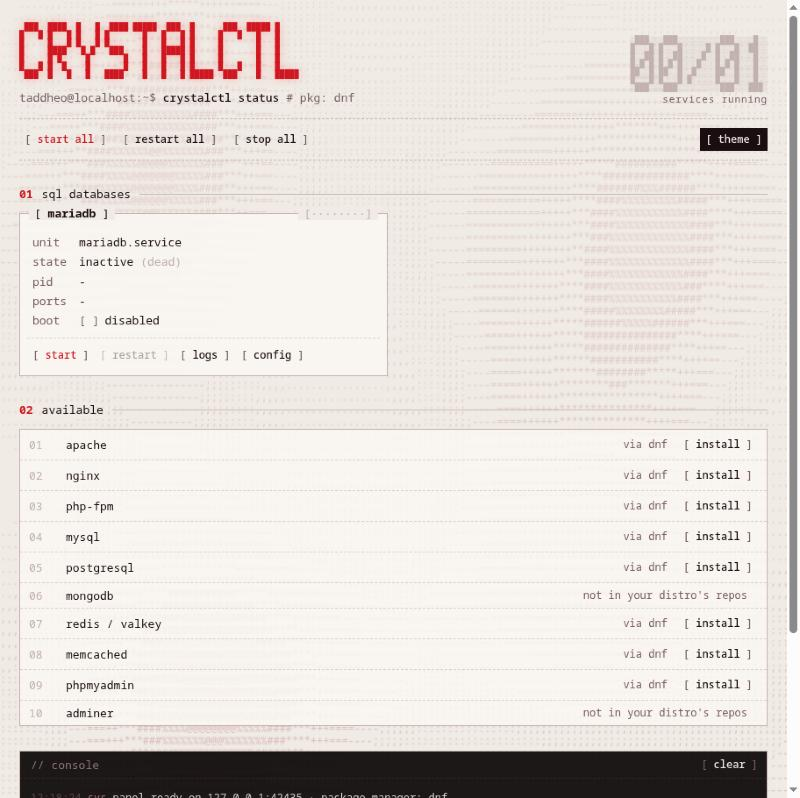
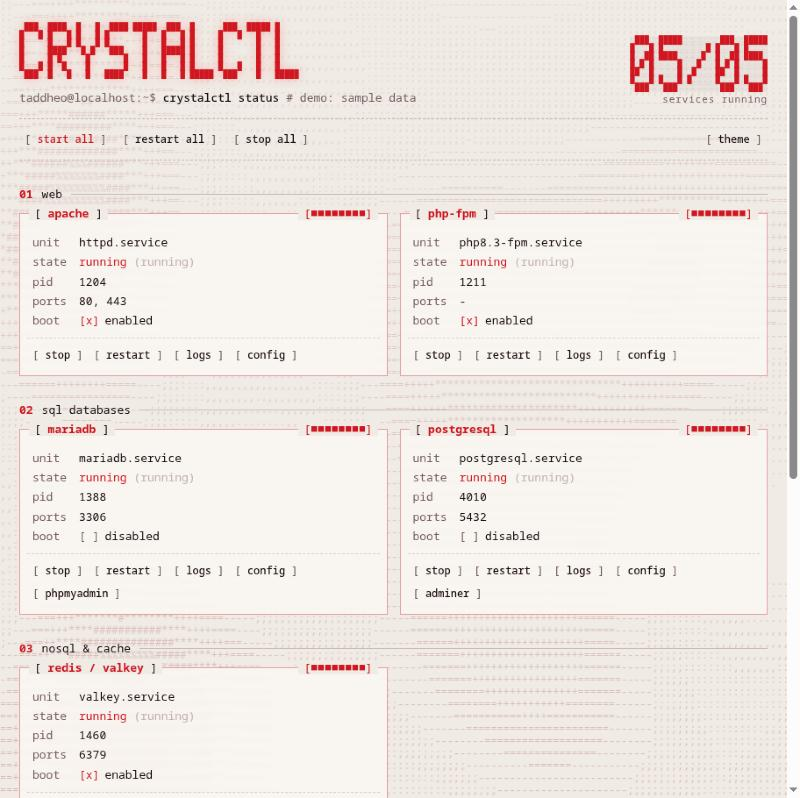
feat: add --demo mode and README gallery, fix restart all

diff --git a/gui/panel.html b/gui/panel.html
@@ -241,7 +241,7 @@ function render() {
   // lit cells red when something runs, unlit cells drawn faint like a display
   $("#count").innerHTML = esc(banner(`${pad2(running)}/${pad2(installed.length)}`, "█", "░"))
     .replace(/█+/g, (m) => running ? `<span class="on">${m}</span>` : m);
-  $("#pm").textContent = `# pkg: ${state.pm || "none"} `;
+  $("#pm").textContent = state.demo ? "# demo: sample data " : `# pkg: ${state.pm || "none"} `;
   $("#busy").textContent = state.busy ? "working…" : "";
 
   let html = "", n = 0;

diff --git a/tests/test_gui.py b/tests/test_gui.py
@@ -3,6 +3,7 @@ import importlib.util
 import json
 import os
 import threading
+import time
 import unittest
 import urllib.request
 from http.server import ThreadingHTTPServer
@@ -64,6 +65,39 @@ class PanelApiTest(unittest.TestCase):
         code, data = self.call("/api/install-plan?id=postgresql")
         self.assertEqual(code, 200)
         self.assertEqual(data["commands"][0], ["dnf", "install", "-y", "postgresql-server"])
+
+
+class DemoModeTest(unittest.TestCase):
+    def wait_idle(self, app):
+        for _ in range(100):
+            if not app.console.busy:
+                return
+            time.sleep(0.05)
+        self.fail("task did not finish")
+
+    def test_demo_shows_sample_services(self):
+        by = {s["id"]: s for s in gui.core.status(gui.DemoRunner())}
+        self.assertEqual(by["apache"]["active"], "active")
+        self.assertEqual(by["apache"]["ports"], [80, 443])
+        self.assertEqual(by["postgresql"]["active"], "inactive")
+        self.assertEqual(by["mariadb"]["admin"]["label"], "phpMyAdmin")
+        self.assertFalse(by["nginx"]["installed"])
+
+    def test_demo_actions_change_only_memory(self):
+        app = gui.App(gui.DemoRunner())
+        self.assertTrue(app.demo)
+        app.action("apache", "stop")
+        self.wait_idle(app)
+        app.action("postgresql", "enable")
+        self.wait_idle(app)
+        app.action("all", "restart")
+        self.wait_idle(app)
+        by = {s["id"]: s for s in gui.core.status(app.runner)}
+        self.assertEqual(by["apache"]["active"], "inactive")  # stopped above; restart all must not revive it
+        self.assertEqual(by["postgresql"]["active"], "active")
+        self.assertTrue(by["postgresql"]["enabled"])
+        app.open_path("apache", "config")  # must not launch a real editor
+        self.assertIn("demo: would open", app.console.lines[-1]["text"])
 
 
 if __name__ == "__main__":

diff --git a/lib/crystal_core.py b/lib/crystal_core.py
@@ -195,7 +195,8 @@ def privileged(cmd, gui=False, runner=None):
     return ["sudo"] + list(cmd)
 
 
-def action_command(service_id, action, units):
+def action_command(service_id, action, units, bulk=False):
+    """`bulk` is for "restart everything": plain restart would also start services the user left stopped."""
     if action not in ACTIONS:
         raise ValueError(f"unknown action: {action}")
     unit = find_unit(by_id(service_id), units)
@@ -203,6 +204,8 @@ def action_command(service_id, action, units):
         raise ValueError(f"{service_id} is not installed")
     if action in ("enable", "disable"):
         return ["systemctl", action, "--now", unit]
+    if action == "restart" and bulk:
+        return ["systemctl", "try-restart", unit]
     return ["systemctl", action, unit]
 
 

diff --git a/tests/test_core.py b/tests/test_core.py
@@ -99,6 +99,9 @@ class CommandTest(unittest.TestCase):
         units = ["httpd", "mariadb"]
         self.assertEqual(core.action_command("apache", "restart", units), ["systemctl", "restart", "httpd"])
         self.assertEqual(core.action_command("mariadb", "enable", units), ["systemctl", "enable", "--now", "mariadb"])
+        # restarting everything must not start what was stopped
+        self.assertEqual(core.action_command("apache", "restart", units, bulk=True), ["systemctl", "try-restart", "httpd"])
+        self.assertEqual(core.action_command("apache", "stop", units, bulk=True), ["systemctl", "stop", "httpd"])
         with self.assertRaises(ValueError):
             core.action_command("apache", "rm -rf /", units)
         with self.assertRaises(ValueError):

diff --git a/README.md b/README.md
@@ -11,9 +11,30 @@
 
 <sub>Formerly Lamp_ControlPanel. Running `./install.sh` again removes the old `lamp` commands.</sub>
 
-![Dark theme](assets/panel-dark.png)
+![crystalctl panel with its animated ASCII background](assets/panel-live.gif)
 
 </div>
+
+## Screenshots
+
+<sub>All taken with `crystalctl-gui --demo`, which shows sample services and changes nothing on your system.</sub>
+
+| Dark | Light |
+|---|---|
+| ![Dark theme with running services](assets/panel-dark.png) | ![Light theme](assets/panel-light.png) |
+| **Logs** from the journal, per service | **Install** shows the exact commands first |
+| ![Journal dialog](assets/panel-logs.png) | ![Install confirmation](assets/panel-install.png) |
+
+**Console**: every action prints the command it ran and how it ended.
+
+![Console after restarting everything](assets/panel-console.png)
+
+### Try it without installing anything
+
+```bash
+git clone https://github.com/taddheotorres/crystalctl.git
+crystalctl/bin/crystalctl-gui --demo
+```
 
 ## What it manages
 
@@ -62,7 +83,6 @@ Open **crystalctl** from your app menu, or run `crystalctl gui`. It opens as an 
 Chromium, Chrome, Brave or Edge if you have one, otherwise in your default browser. It closes itself
 about 45 seconds after you close the window.
 
-![Light theme](assets/panel-light.png)
 
 ### Terminal
 
@@ -100,6 +120,7 @@ Redis / Valkey  valkey          ○ inactive  no     -        -
 ```bash
 python3 -m unittest discover -s tests   # no root and no services needed
 bin/crystalctl-gui --no-window                # prints the panel URL instead of opening a window
+bin/crystalctl-gui --demo                     # sample services, nothing is changed
 ```
 
 ## Uninstall
